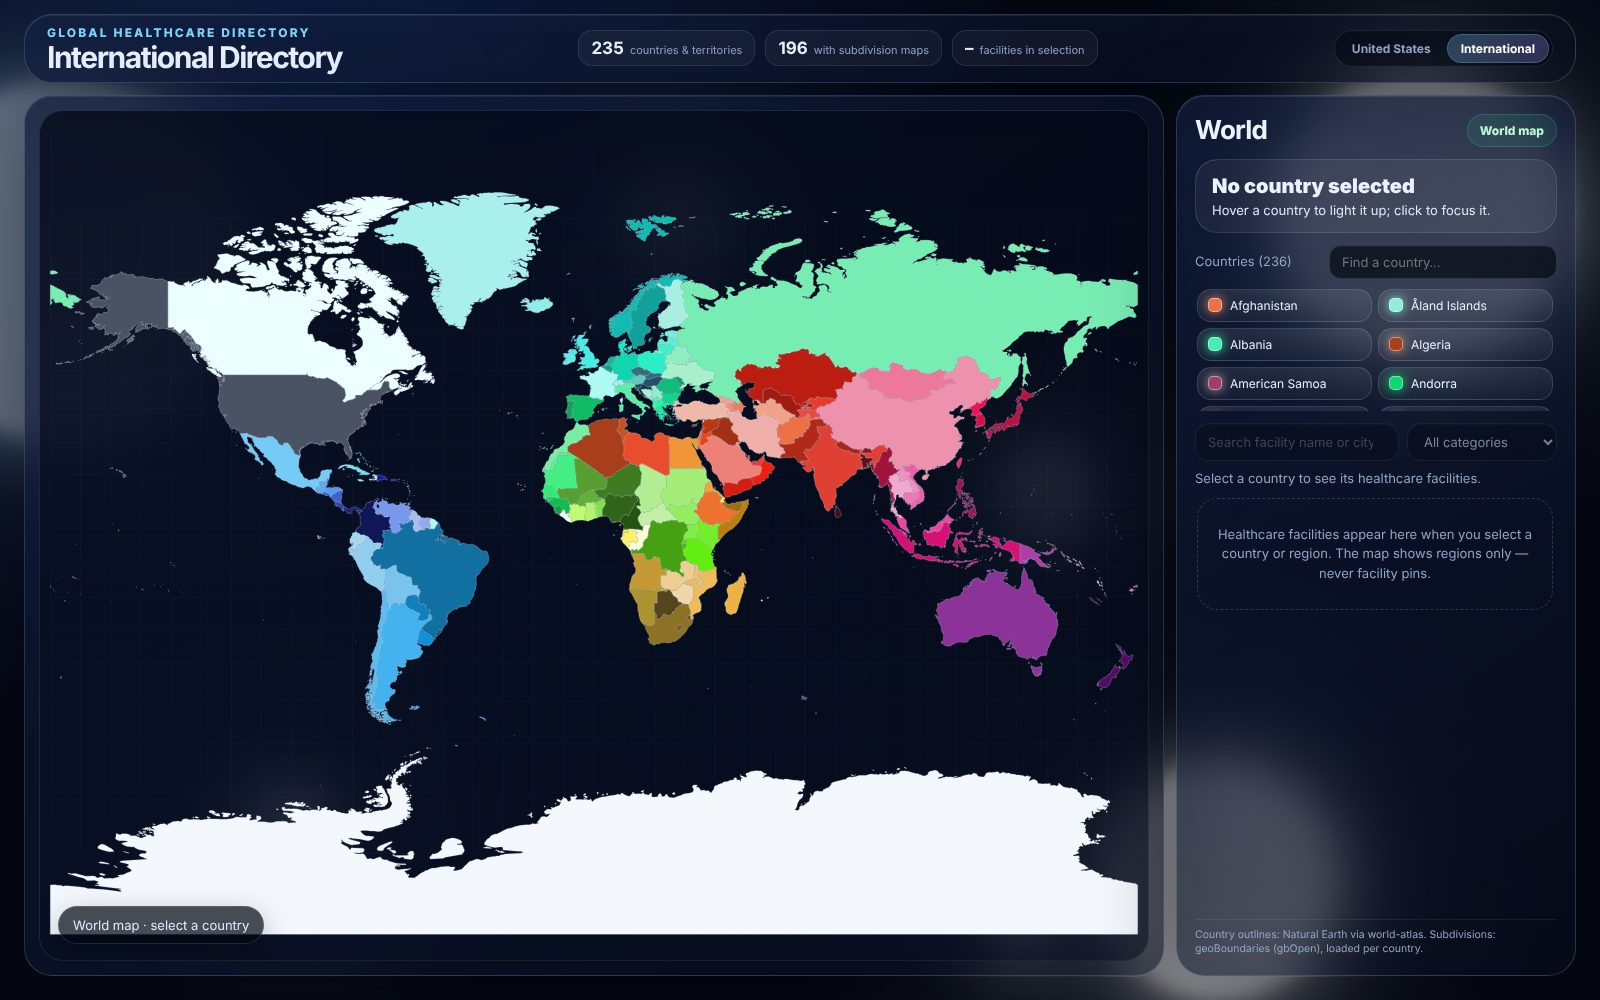
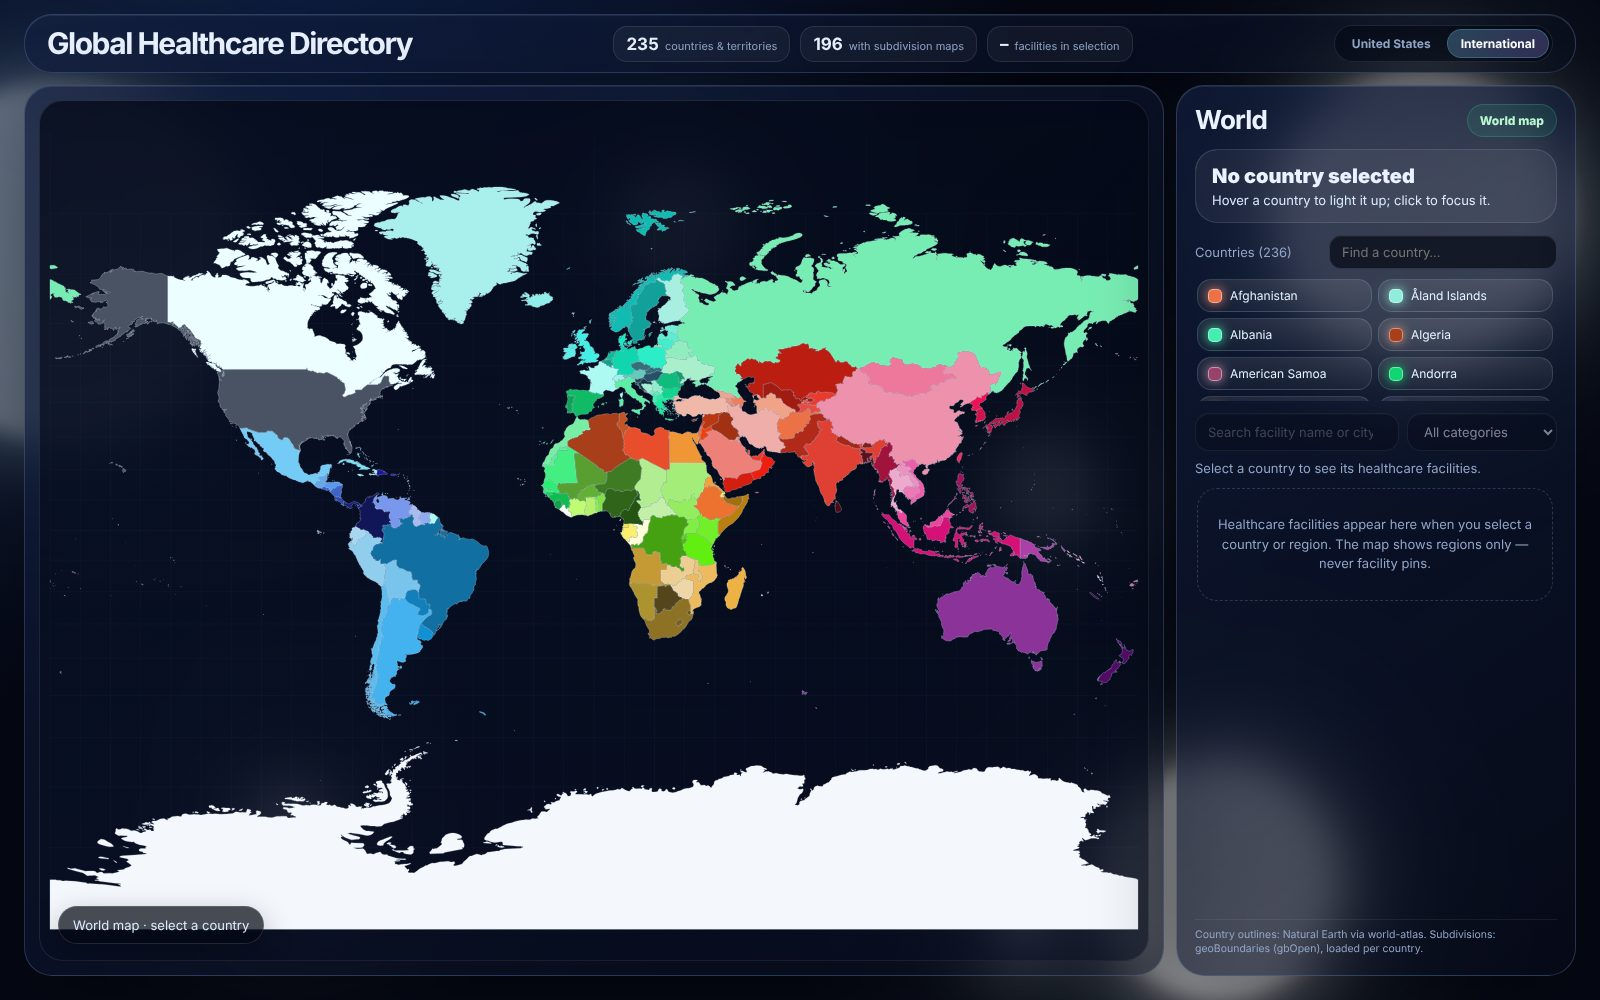
Header title: "Global Healthcare Directory", small eyebrow line removed
The blue eyebrow line is removed and the white title now reads "Global
Healthcare Directory" at the same font and size. Header ~68px -> ~59px.

Claude-Session: https://claude.ai/code/session_01Qy7vVREGma9DSC7PB3AgeL

diff --git a/assets/css/world.css b/assets/css/world.css
@@ -135,7 +135,7 @@ h2{margin:0;font-size:26px;letter-spacing:-.03em}
 /* Single-row header: title | three stat boxes | directory toggle. */
 .header{padding:10px 22px;align-items:center;flex-wrap:nowrap;gap:24px}
 .header .titleBlock{flex:0 0 auto}
-.header h1{font-size:clamp(22px,2.2vw,30px);margin-top:3px;white-space:nowrap}
+.header h1{font-size:clamp(22px,2.2vw,30px);margin:0;white-space:nowrap}
 .header .stats{flex:1;justify-content:center;flex-wrap:nowrap}
 .header .stat{min-width:0;padding:7px 12px;border-radius:14px;white-space:nowrap}
 .header .stat b{font-size:17px;display:inline;margin-right:6px}

diff --git a/world.html b/world.html
@@ -15,8 +15,7 @@
   <div class="app">
     <header class="header glass">
       <div class="titleBlock">
-        <div class="eyebrow">Global Healthcare Directory</div>
-        <h1>International Directory</h1>
+        <h1>Global Healthcare Directory</h1>
       </div>
       <div class="stats">
         <div class="stat"><b id="statCountries">–</b><span>countries &amp; territories</span></div>
